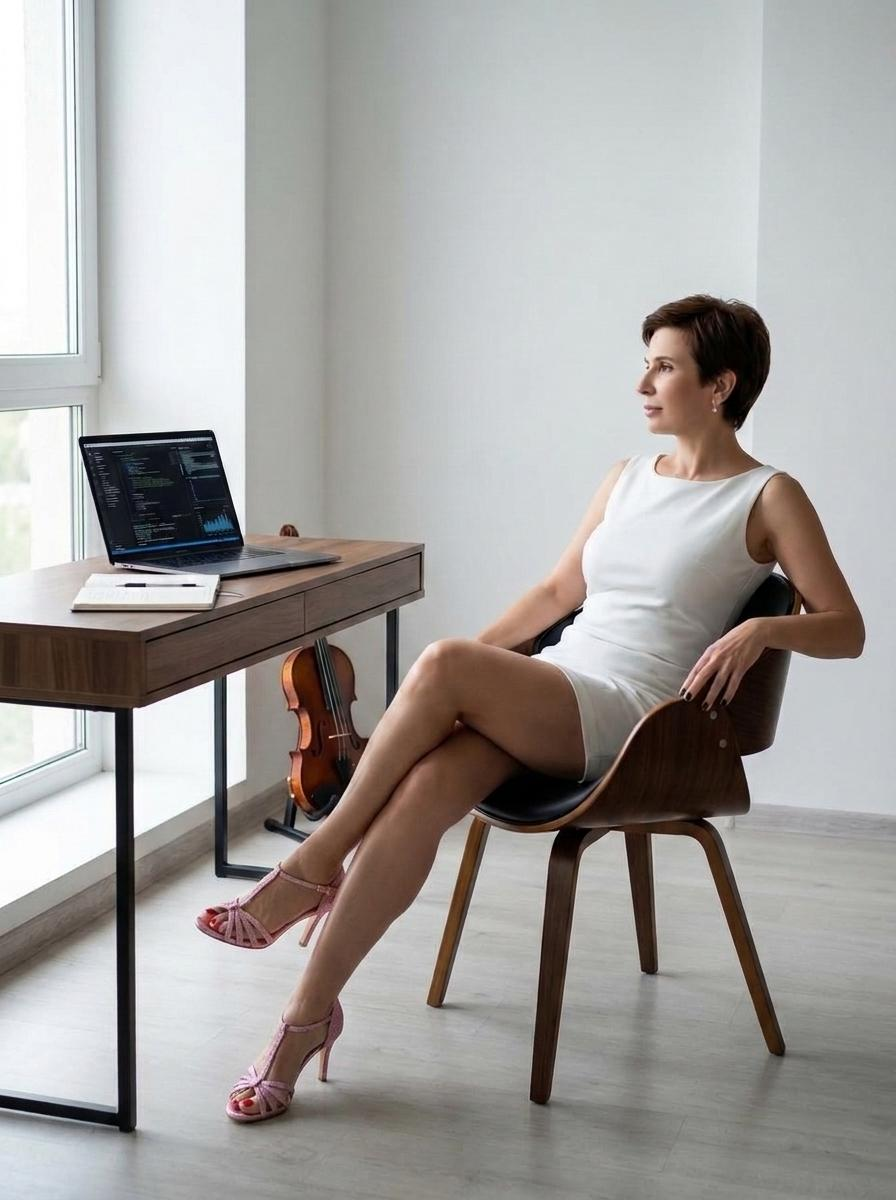
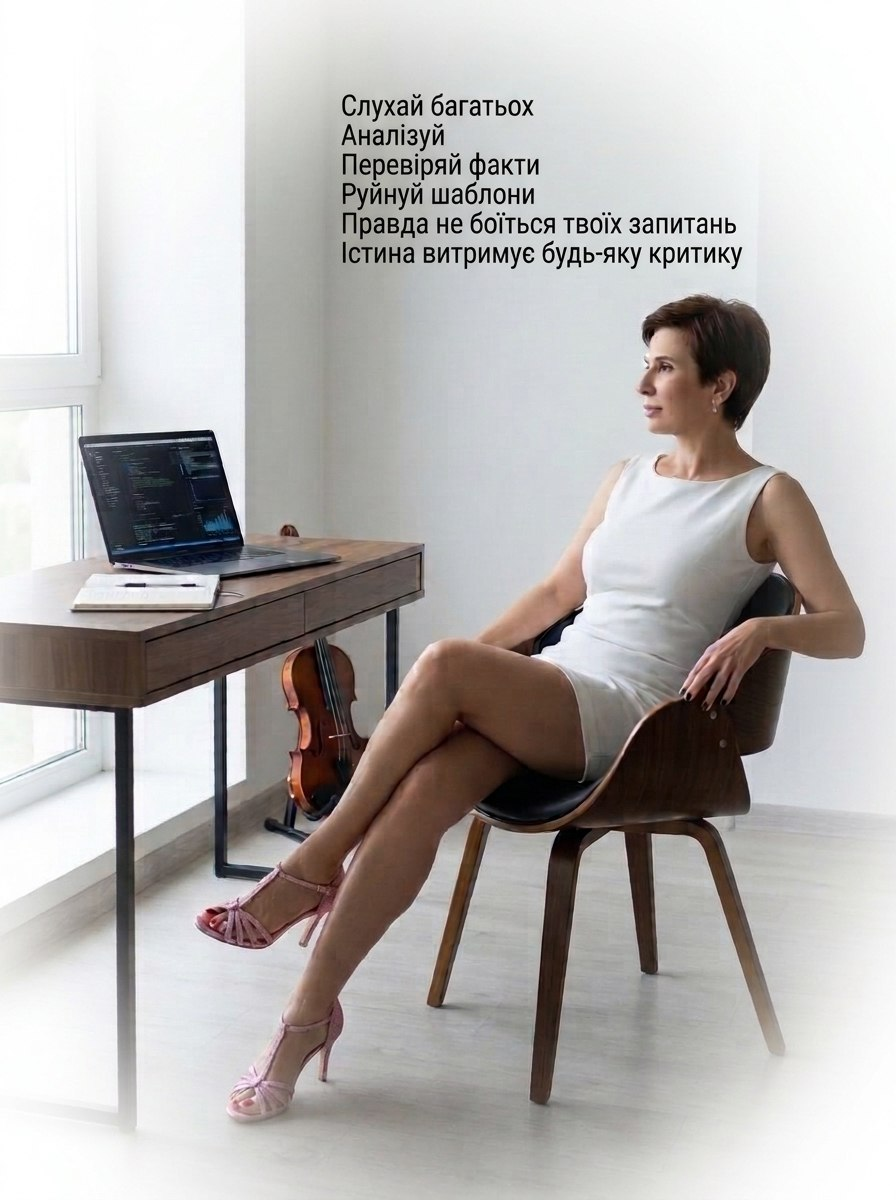
Infospace: replace hero photo with final interface image, remove duplicate overlays

diff --git a/src/app/pages/infospace/infospace.component.html b/src/app/pages/infospace/infospace.component.html
@@ -27,16 +27,7 @@
           src="assets/infospace-hero.jpg"
           alt="SOROKA — infospace"
           class="hero-img" />
-        <div class="laptop-overlay" aria-hidden="true">
-          <span class="mini-play">▶</span>
-        </div>
-        <div class="hero-lines">
-          @for (line of lines; track $index) {
-            <p>{{ line }}</p>
-          }
-        </div>
-
-        <!-- Hover cards (above strip, over hero) -->
+<!-- Hover cards (above strip, over hero) -->
         @if (hovered) {
           <div class="hover-cards">
             <a class="card media-card" [href]="hovered.link" target="_blank" rel="noopener noreferrer">

diff --git a/src/app/pages/infospace/infospace.component.scss b/src/app/pages/infospace/infospace.component.scss
@@ -90,9 +90,10 @@
   display: block;
   width: 100%;
   height: auto;
-  max-height: 520px;
-  object-fit: cover;
-  object-position: center right;
+  max-height: none;
+  object-fit: contain;
+  object-position: center center;
+  background: #fff;
 }
 
 .hero-lines {
